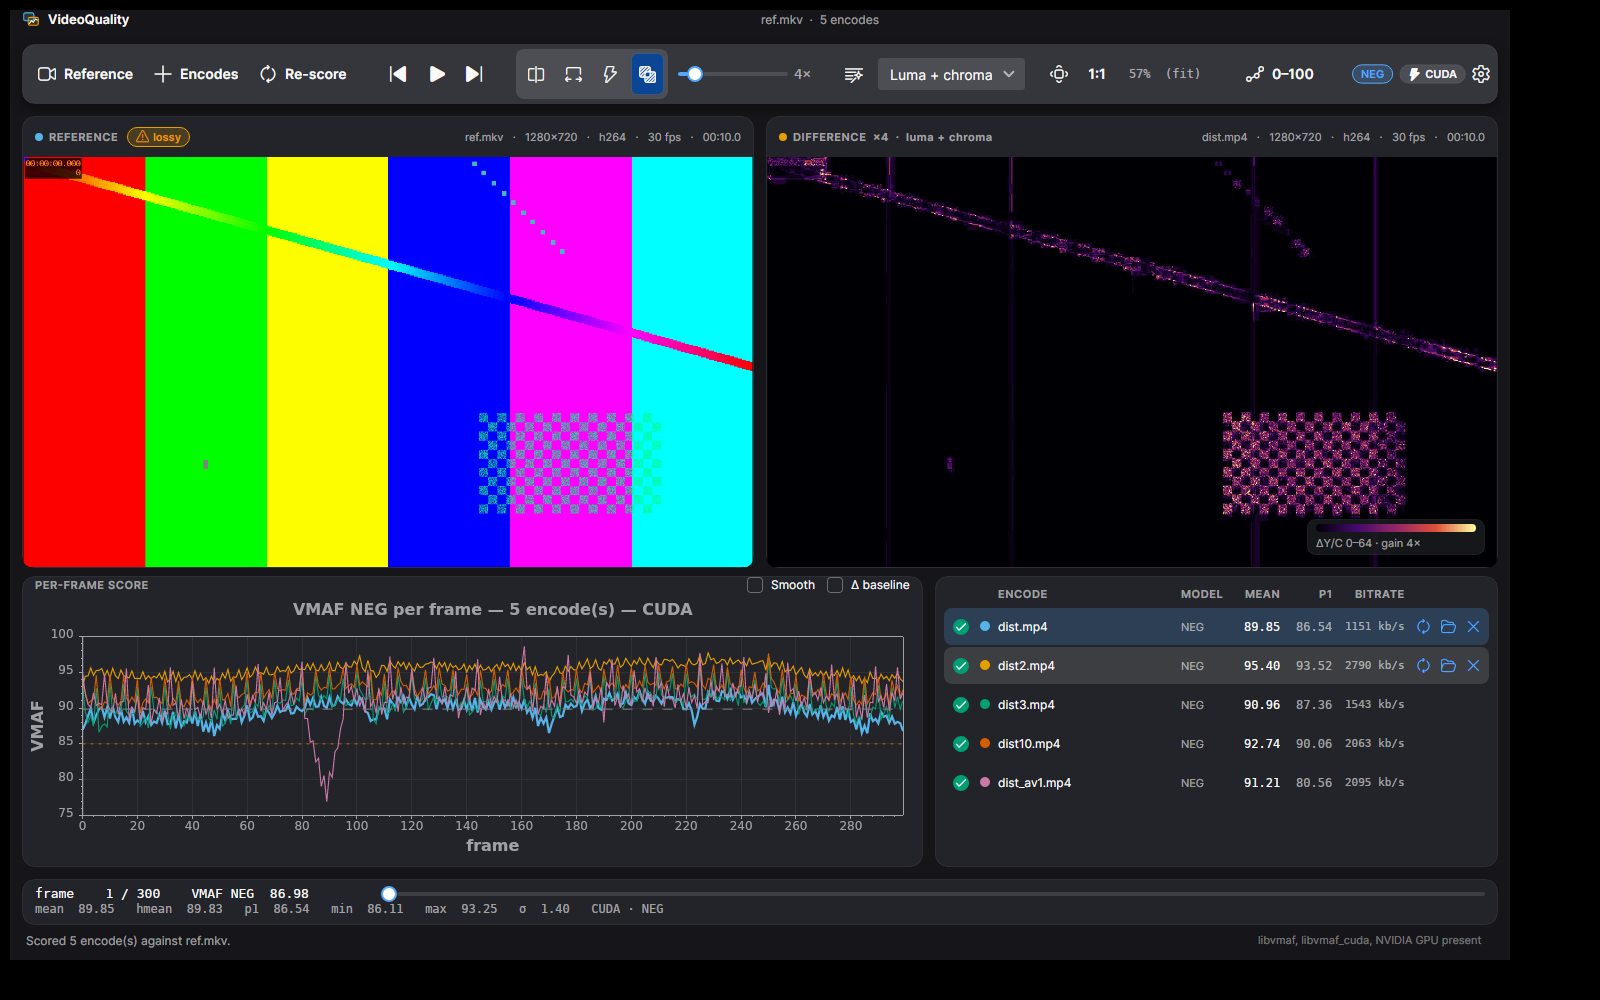
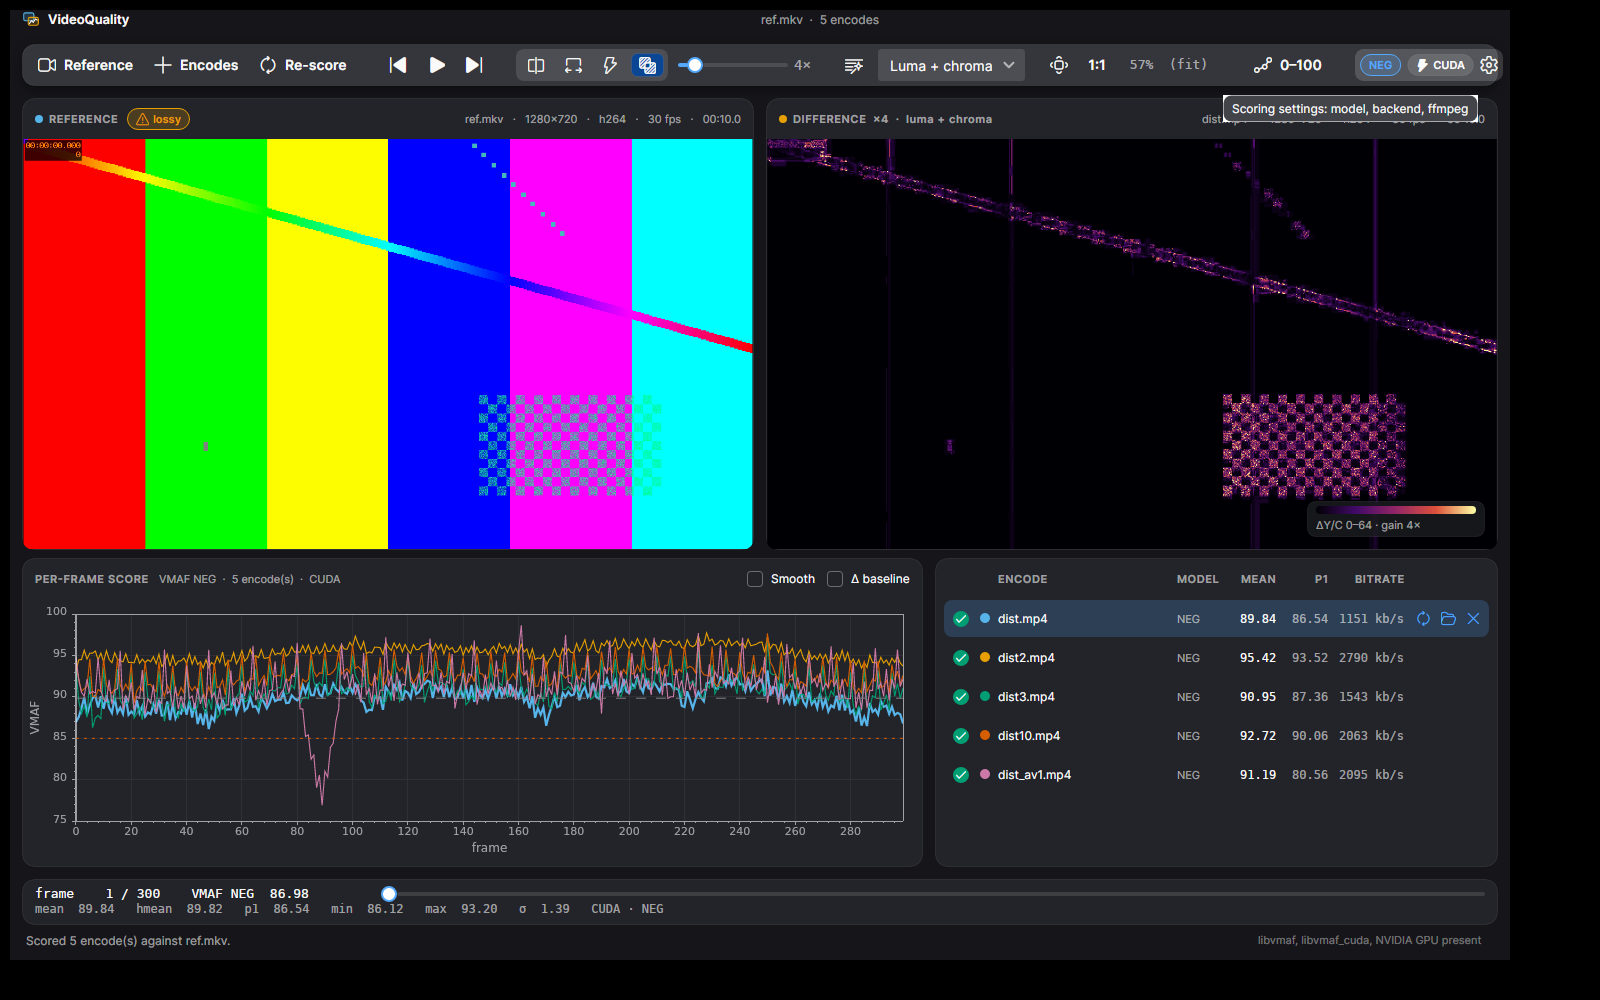
UI: align every toolbar control, card header and label
Review pass over all states (loaded, difference, empty, settings):

- Toolbar: every control is 32 px. The segmented view switch was 50 px
  (theme minimum height); the difference-channel combo box was taller
  too. Chips have one height, so the icon chip (CUDA) matches NEG. The
  zoom readout uses the same size as the "1:1" button.
- Cards: one 40 px header style for the viewer panes, graph and table,
  so neighbouring headers share a line (graph and table were 9 px apart,
  and the graph label touched the card edge).
- Graph: ScottPlot's bold title duplicated the card header in another
  font; the model/encodes/backend summary now sits in the header and the
  plot gets the space. Axis labels and ticks use 12/11 px, regular, muted.
- Right pane says ENCODE, not DISTORTED, like the rest of the UI.
- Tooltips use the dark raised layer instead of a light box.
- Settings flyout headings share one section style.
- Drop zones top-align their content, so the titles line up whatever the
  description length.
- Timeline slider is disabled until there are frames, with its thumb at
  the start instead of the far end.
- Bitrate column uses the same 12 px as the other numbers.

Documentation screenshots regenerated.

diff --git a/VideoQuality.App/Views/MainWindow.axaml.cs b/VideoQuality.App/Views/MainWindow.axaml.cs
@@ -172,9 +172,8 @@ public partial class MainWindow : UrsaWindow
         if (entries.Count == 0)
         {
             plot.Axes.SetLimits(0, 100, 0, 100);
-            plot.Title(all.Count == 0 ? "VMAF per frame" : "All curves hidden");
-            plot.XLabel("frame");
-            plot.YLabel("VMAF");
+            GraphSubtitle.Text = all.Count == 0 ? string.Empty : "all curves hidden";
+            StyleAxes(plot, "frame", "VMAF");
             PlotView.Refresh();
             return;
         }
@@ -253,17 +252,32 @@ public partial class MainWindow : UrsaWindow
         string label = _viewModel?.SelectedEncode?.Report is { } selectedReport
             ? VmafModels.DisplayName(selectedReport.Model)
             : "VMAF";
-        string mixed = _viewModel?.HasMixedModels == true ? " · MIXED MODELS" : string.Empty;
+        string mixed = _viewModel?.HasMixedModels == true ? "  ·  MIXED MODELS" : string.Empty;
 
         string title = delta
-            ? $"Δ {label} vs {baseline.Name} — {entries.Count} encode(s){mixed}"
-            : $"{label} per frame — {entries.Count} encode(s)" +
-              (backend.Length > 0 ? $" — {backend}" : string.Empty) + mixed;
+            ? $"Δ {label} vs {baseline.Name}  ·  {entries.Count} encode(s){mixed}"
+            : $"{label}  ·  {entries.Count} encode(s)" +
+              (backend.Length > 0 ? $"  ·  {backend}" : string.Empty) + mixed;
 
-        plot.Title(title);
-        plot.XLabel("frame");
-        plot.YLabel(delta ? "Δ VMAF" : "VMAF");
+        // The card header carries the title, in the app's own typography; the plot has none.
+        GraphSubtitle.Text = title;
+        StyleAxes(plot, "frame", delta ? "Δ VMAF" : "VMAF");
         PlotView.Refresh();
+    }
+
+    /// <summary>Axis labels and ticks at the app's text sizes, regular weight, muted colour.</summary>
+    private static void StyleAxes(Plot plot, string x, string y)
+    {
+        var muted = Color.FromHex("#A0A1A7");
+        foreach (var (axis, text) in new (ScottPlot.IAxis Axis, string Text)[] { (plot.Axes.Bottom, x), (plot.Axes.Left, y) })
+        {
+            axis.Label.Text = text;
+            axis.Label.FontSize = 12;
+            axis.Label.Bold = false;
+            axis.Label.ForeColor = muted;
+            axis.TickLabelStyle.FontSize = 11;
+            axis.TickLabelStyle.ForeColor = muted;
+        }
     }
 
     /// <summary>Baseline value at a frame number; frames are dense and start at zero.</summary>

diff --git a/VideoQuality.App/ViewModels/MainViewModel.cs b/VideoQuality.App/ViewModels/MainViewModel.cs
@@ -285,7 +285,10 @@ public partial class MainViewModel : ViewModelBase, IDisposable
 
     public int FrameCount => Frames.Count;
 
-    public double MaxFrame => Math.Max(0, FrameCount - 1);
+    // At least 1 so an empty (disabled) slider shows its thumb at the start, not the far end.
+    public double MaxFrame => Math.Max(1, FrameCount - 1);
+
+    public bool HasFrames => FrameCount > 1;
 
     public bool HasEncodes => Encodes.Count > 0;
 
@@ -340,7 +343,7 @@ public partial class MainViewModel : ViewModelBase, IDisposable
 
     public string RightPaneTitle => IsDifference
         ? $"DIFFERENCE  ×{DifferenceGain:0.#}  ·  {ChannelLabel}"
-        : "DISTORTED";
+        : "ENCODE";
 
     public string DifferenceLegend
     {
@@ -1484,6 +1487,7 @@ public partial class MainViewModel : ViewModelBase, IDisposable
         OnPropertyChanged(nameof(Frames));
         OnPropertyChanged(nameof(FrameCount));
         OnPropertyChanged(nameof(MaxFrame));
+        OnPropertyChanged(nameof(HasFrames));
         OnPropertyChanged(nameof(StatsText));
         OnPropertyChanged(nameof(FrameText));
         OnPropertyChanged(nameof(CanPlay));
